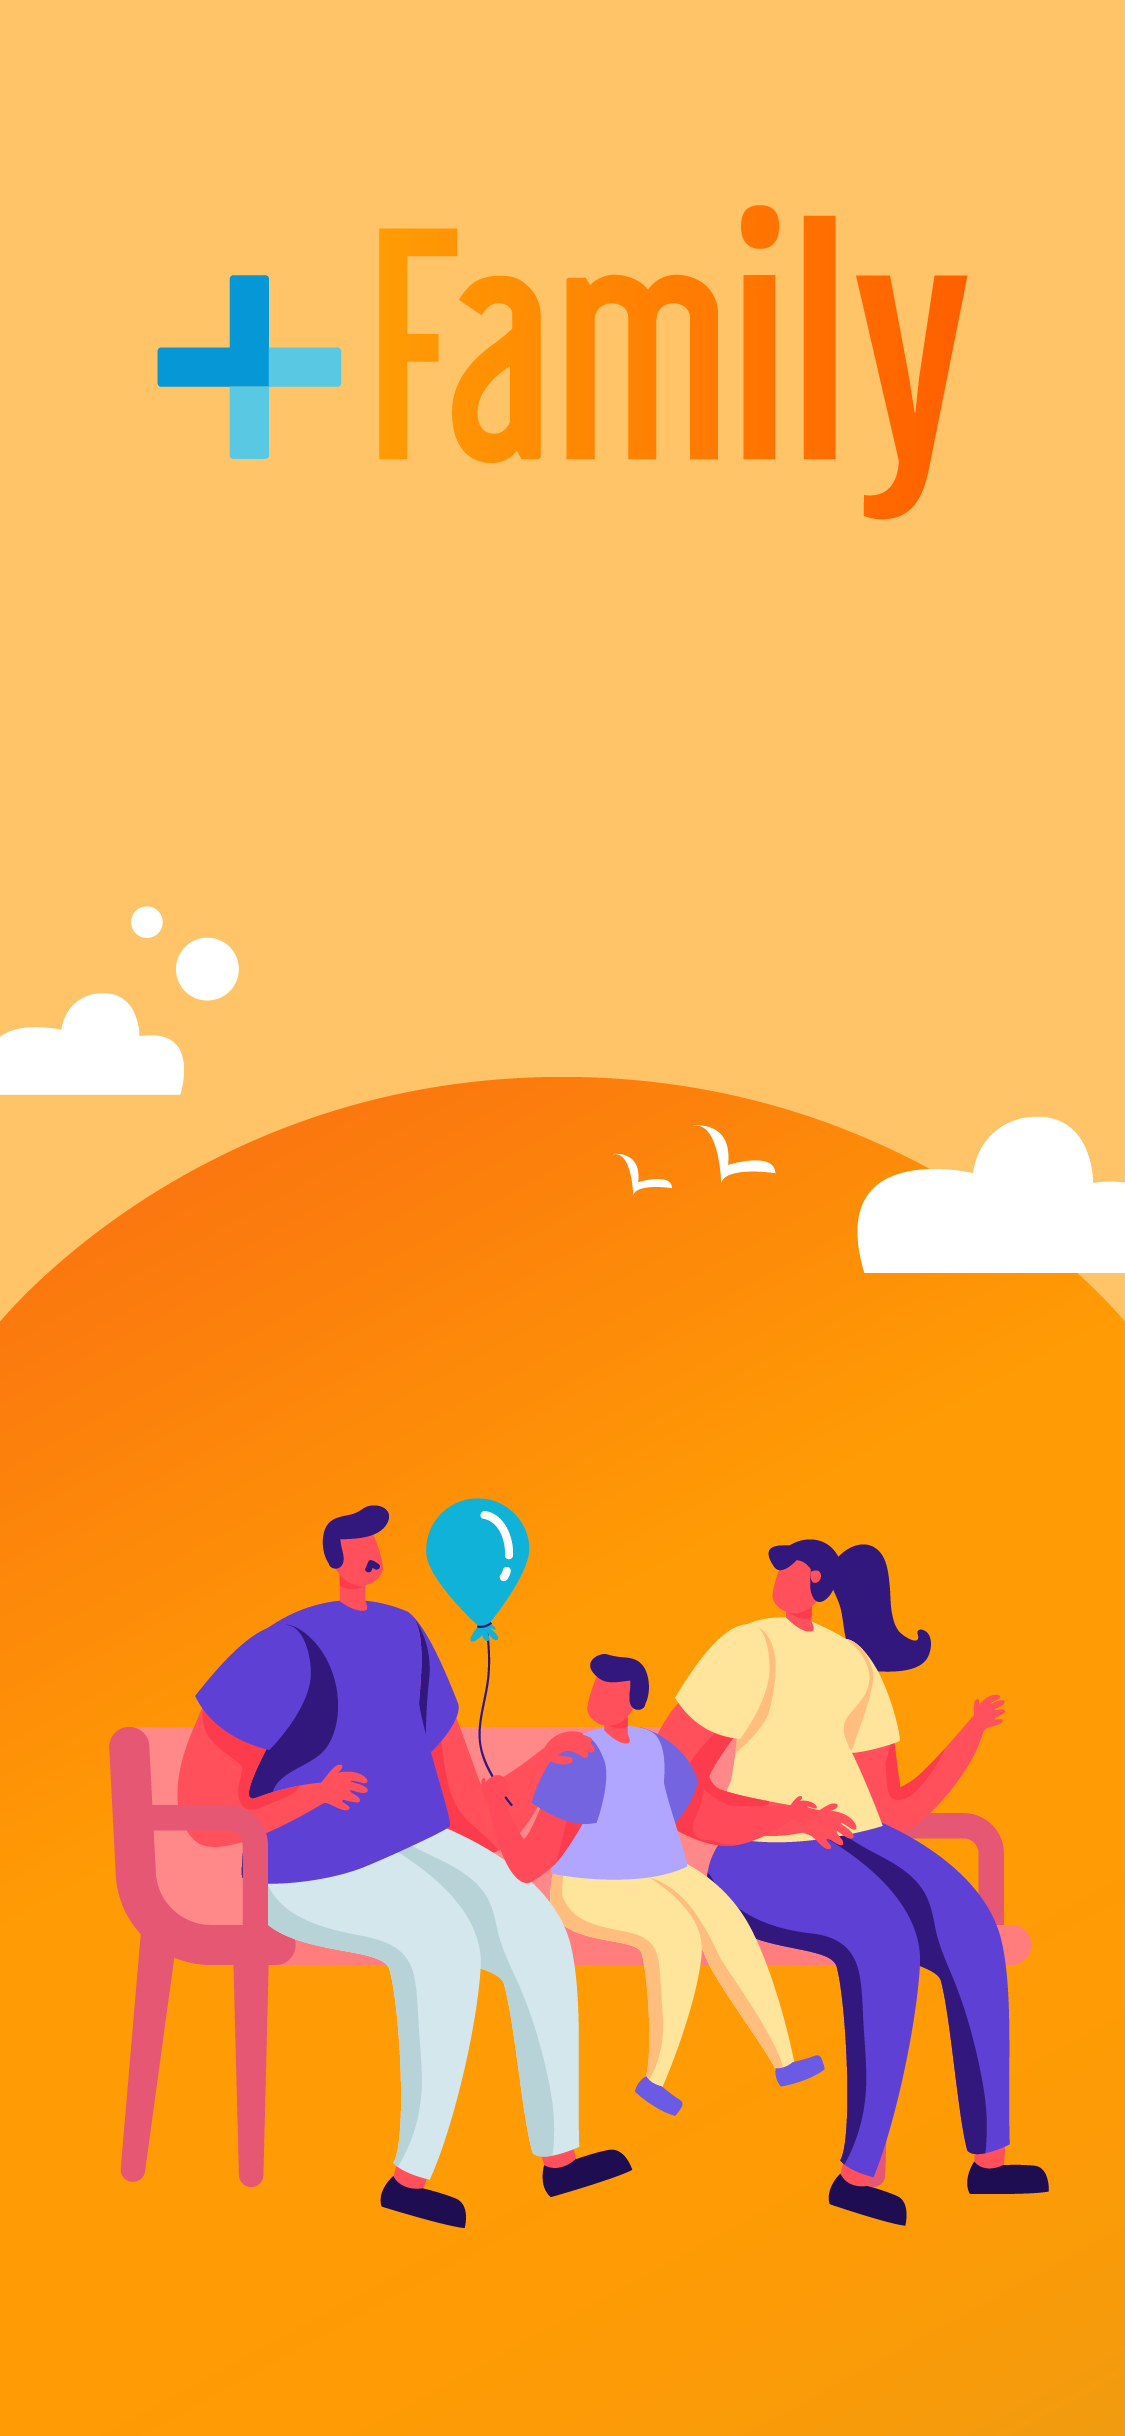
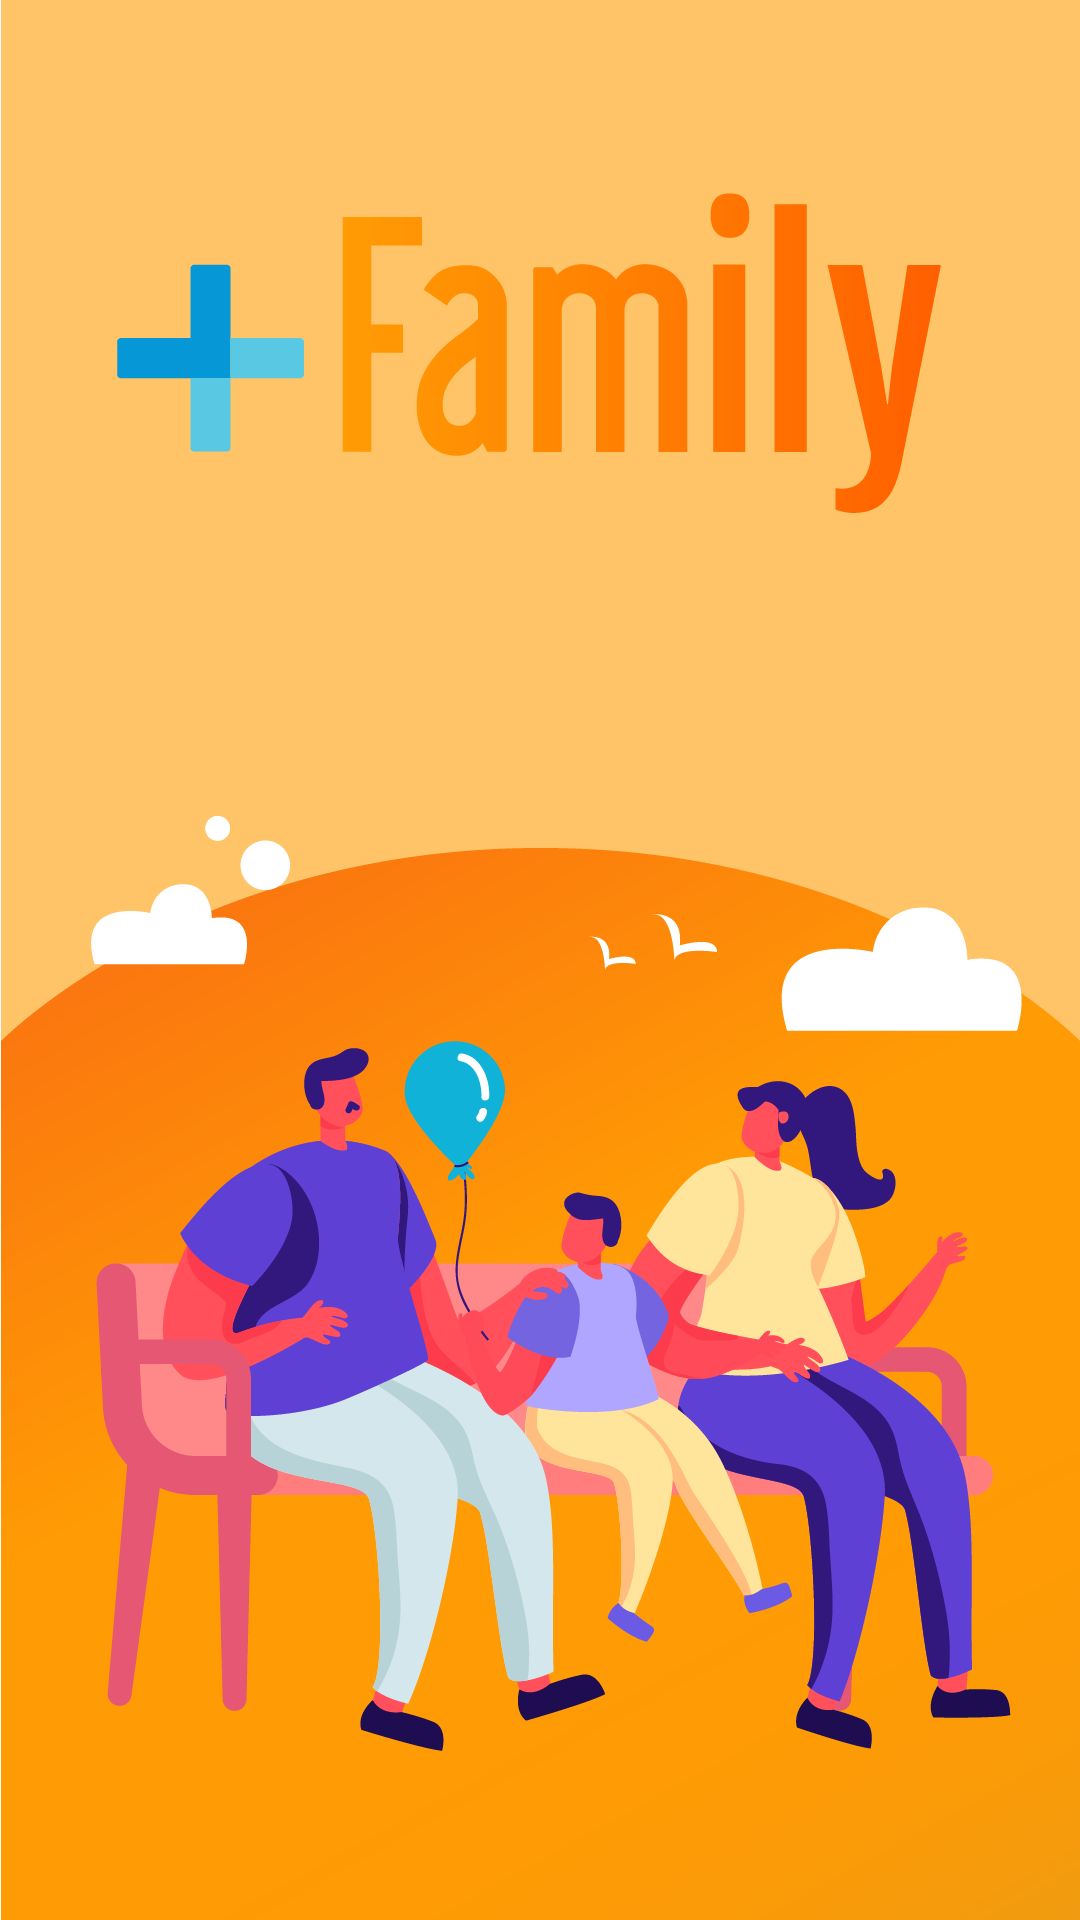
Change image intro

diff --git a/src/screens/styles/intro.js b/src/screens/styles/intro.js
@@ -1,7 +1,7 @@
 import {Dimensions, StyleSheet} from 'react-native';
 import {Colors} from '@common';
 
-const {width} = Dimensions.get('window');
+const {width, height} = Dimensions.get('window');
 
 export default StyleSheet.create({
   mainContainer: {
@@ -10,15 +10,15 @@ export default StyleSheet.create({
   imageBackground: {
     flex: 1,
     alignItems: 'center',
-    paddingTop: 40,
+    //paddingTop: 40,
   },
   header: {
-    marginTop: width * 0.26,
+    marginTop: height * 0.22,
     flex: 1,
     alignItems: 'center'
   },
   title: {
-    fontSize: 26,
+    fontSize: 24,
     textAlign: 'center',
   },
   textIntro:{

diff --git a/src/screens/intro.js b/src/screens/intro.js
@@ -10,7 +10,7 @@ const Intro = () => {
     useEffect(() => {
         setTimeout(() => {
             navigation.navigate("Index")
-        }, 1500);
+        }, 4500);
 
         //time()
     }, []);
@@ -20,7 +20,7 @@ const Intro = () => {
             onPress={()=>navigation.navigate("Index")}
             style={styles.mainContainer}>
             <ImageBackground
-                resizeMode="stretch"
+                resizeMode="cover"
                 style={[styles.imageBackground]}
                 source={require('../assets/img/FBO-intro.png')}>
                     <View style={styles.header}>
